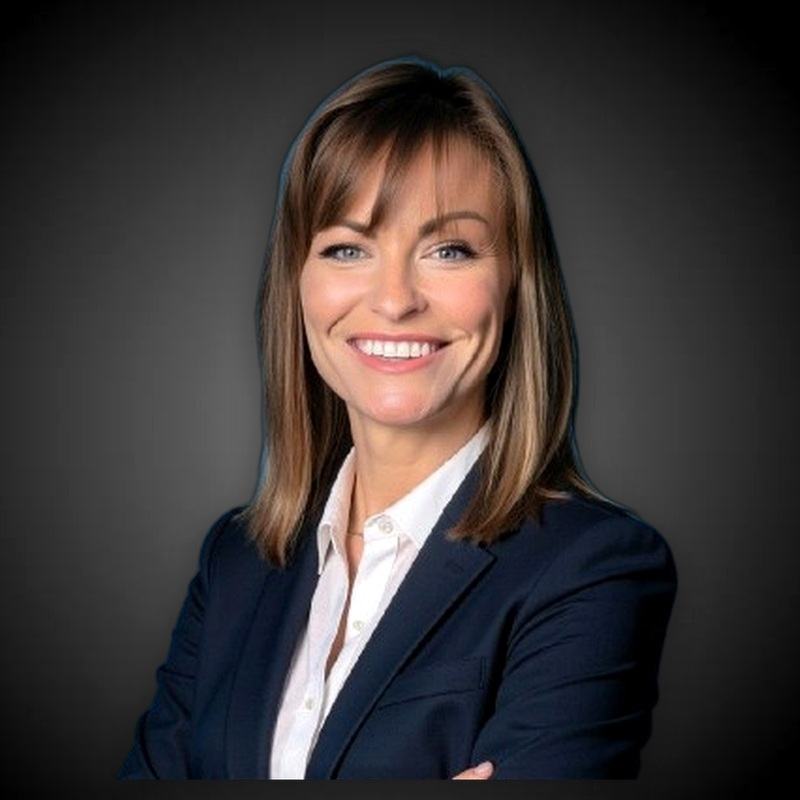
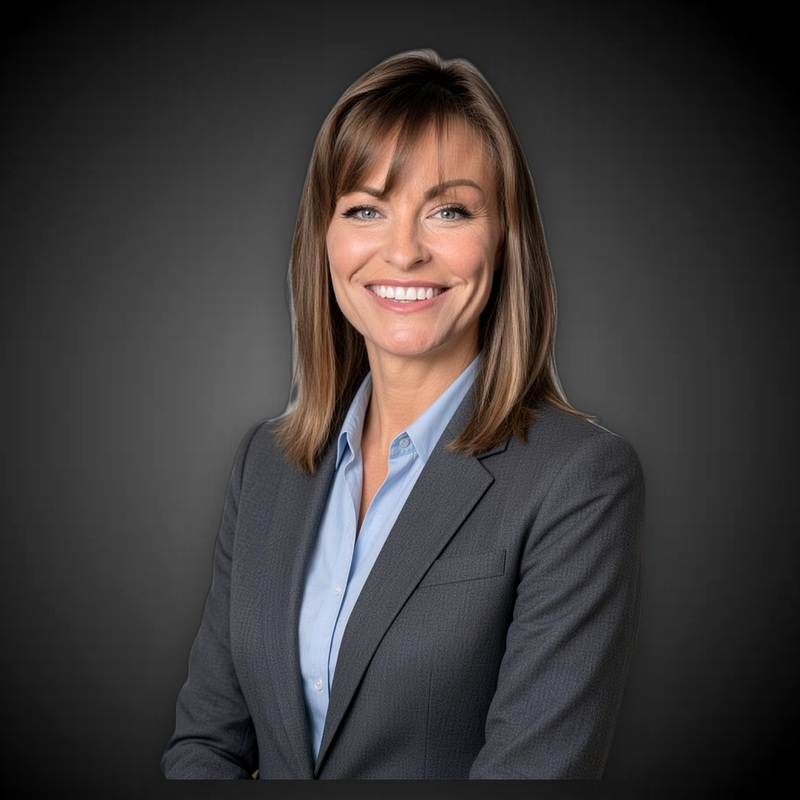
preview 1919: refresh Mike/Hadley/Stephanie/Nate headshots from new sources onto G vignette

diff --git a/index.html b/index.html
@@ -6,15 +6,15 @@
 <meta name="color-scheme" content="dark light" />
 <meta name="description" content="Adaptive Medical Partners — 87% retention at 3 years, 1.7 avg interviews per placement, 700+ rural/FQHC/CAH partners, 16 years since 2010. Explore the Range with AMP." />
 <title>AMP · Explore the Range · Adaptive Medical Partners</title>
-<link rel="stylesheet" href="css/site.css?v=1918" />
-<link rel="preload" as="image" href="assets/hero-mountain-wide.png?v=1918" />
+<link rel="stylesheet" href="css/site.css?v=1919" />
+<link rel="preload" as="image" href="assets/hero-mountain-wide.png?v=1919" />
 </head>
 <body>
 <div id="approach-video-hold" class="approach-video-hold" aria-hidden="true" hidden></div>
 <nav class="site-nav is-home" id="site-nav" aria-label="Primary">
   <button type="button" class="brand brand-lockup brand-glow-white" data-go="home" aria-label="AMP Adaptive Medical Partners home">
-    <img class="brand-lockup-img is-white" src="assets/amp-lockup-nav.png?v=1918" alt="Adaptive Medical Partners" width="304" height="68" />
-    <img class="brand-lockup-img is-black" src="assets/amp-lockup-nav-black.png?v=1918" alt="" width="304" height="68" />
+    <img class="brand-lockup-img is-white" src="assets/amp-lockup-nav.png?v=1919" alt="Adaptive Medical Partners" width="304" height="68" />
+    <img class="brand-lockup-img is-black" src="assets/amp-lockup-nav-black.png?v=1919" alt="" width="304" height="68" />
   </button>
   <div class="nav-links">
     <button type="button" class="nav-link hide-sm" data-go="physician">Physicians</button>
@@ -34,8 +34,8 @@
 
 <!-- ========== HOME: zoomed-OUT wide mountain + clean copy (no auto zoom-in) ========== -->
 <section class="view on home-stage settled" data-route="home" id="home-stage">
-  <img class="home-poster" src="assets/hero-mountain-wide.png?v=1918" alt="" />
-  <video id="home-video" class="home-video" src="assets/imagine-home.mp4?v=1918" poster="assets/hero-mountain-wide.png?v=1918" playsinline muted preload="metadata"></video>
+  <img class="home-poster" src="assets/hero-mountain-wide.png?v=1919" alt="" />
+  <video id="home-video" class="home-video" src="assets/imagine-home.mp4?v=1919" poster="assets/hero-mountain-wide.png?v=1919" playsinline muted preload="metadata"></video>
   <div class="home-mist" aria-hidden="true"></div>
   <button type="button" class="home-skip" data-play-approach hidden>Watch the approach</button>
   <div class="home-overlay">
@@ -85,7 +85,7 @@
 <!-- ========== PHYSICIAN FUNNEL ========== -->
 <section class="view page funnel trailhead" data-route="physician">
   <div class="shot" aria-hidden="true">
-    <img class="still" src="assets/trailhead-specialty-baked.png?v=1918" alt="" />
+    <img class="still" src="assets/trailhead-specialty-baked.png?v=1919" alt="" />
   </div>
   <div class="trailhead-stage">
     <div class="trailhead-top">
@@ -299,7 +299,7 @@
 <!-- ========== CLIENT FUNNEL (same trail transition family) ========== -->
 <section class="view page funnel trailhead" data-route="client">
   <div class="shot" aria-hidden="true">
-    <img class="still" src="assets/trailhead-facility-baked.png?v=1918" alt="" />
+    <img class="still" src="assets/trailhead-facility-baked.png?v=1919" alt="" />
   </div>
   <div class="trailhead-stage">
     <div class="trailhead-top">
@@ -1375,9 +1375,9 @@
 }
 </script>
 
-<script src="js/content.js?v=1918"></script>
-<script src="js/articles.js?v=1918"></script>
-<script src="js/app.js?v=1918"></script>
+<script src="js/content.js?v=1919"></script>
+<script src="js/articles.js?v=1919"></script>
+<script src="js/app.js?v=1919"></script>
 <template id="amp-region-map-template">
 <div class="region-map-shell">
   <div class="region-map-intro">

diff --git a/css/site.css b/css/site.css
@@ -3193,7 +3193,7 @@ body.amp-live-trailhead .view.trailhead.on .trailhead-top .crumb button {
     object-position: 28% 50% !important;
   }
   .view.funnel.trailhead.on::after {
-    content: "preview 1918";
+    content: "preview 1919";
     position: fixed;
     left: 10px;
     bottom: calc(12px + env(safe-area-inset-bottom, 0px));

diff --git a/js/app.js b/js/app.js
@@ -128,7 +128,7 @@
   }
 
   function trailheadBakeSrc(route) {
-    var v = "1918";
+    var v = "1919";
     if (route === "client") return "assets/trailhead-facility-baked.png?v=" + v;
     return "assets/trailhead-specialty-baked.png?v=" + v;
   }
